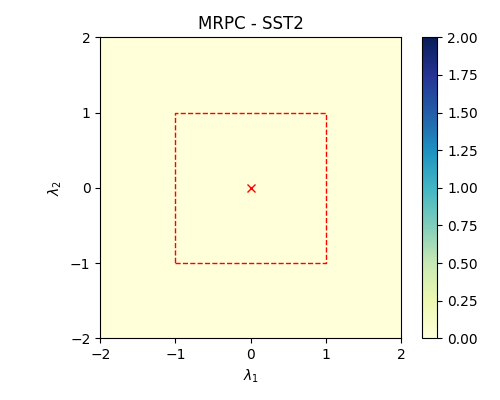
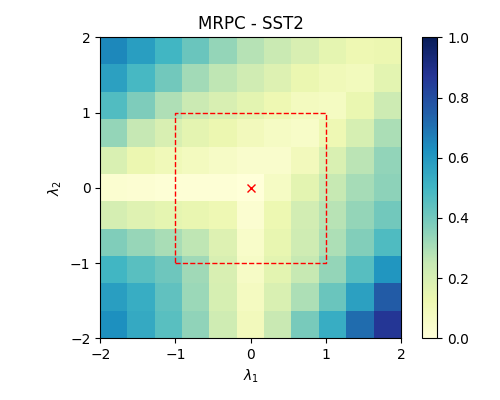
2410105 sync

diff --git a/src/weight_disentanglement.py b/src/weight_disentanglement.py
@@ -23,16 +23,16 @@ def error_rate(y_true, y_pred):
         count += 1
     return error / count
 
-# 현재 시간으로 로그 파일 이름 생성
+
 current_time = datetime.now().strftime('%Y%m%d_%H%M%S')
 log_file = f'/data2/david3684/2024_arithmetic/logs/disentanglement_{current_time}.log'
 log_dir = os.path.dirname(log_file)
 
-# 디렉토리가 존재하지 않으면 생성
+
 if not os.path.exists(log_dir):
     os.makedirs(log_dir)
 
-# 로그 파일 열기
+
 log_f = open(log_file, 'w')
 
 def log(message):
@@ -48,7 +48,7 @@ args.initial_rank_ratio = 0.5
 args.task_scale_factors = None
 args.save = 'checkpoints/ViT-L-14'
 args.data_location = '/data2/david3684/data'
-args.n_eval_points = 10
+args.n_eval_points = 21
 args.num_test_samples = 2048
 
 shared_weight_model = torch.load('/data2/david3684/2024_arithmetic/shared_weight/20241010_vanilla/rankmin_config_20241010_uni_vanilla_2.bin') 
@@ -64,13 +64,13 @@ for task in args.tasks:
     task_vector_path = f"/data2/david3684/2024_arithmetic/checkpoints/ViT-L-14/{task}/{task}_vector_from_shared_{args.low_rank_mode}_rank{args.initial_rank_ratio}.pt"
     task_vectors[task] = torch.load(task_vector_path).to(args.device)
 
-n=11
+n=args.n_eval_points
 alpha_range = np.linspace(-2, 2, n)
 
 disentanglement_errors = np.zeros((n, n))
 
-predicts_0_file = "predicts_0.pkl"
-predicts_1_file = "predicts_1.pkl"
+predicts_0_file = "predicts_0_21.pkl"
+predicts_1_file = "predicts_1_21.pkl"
 
 _, _, val_preprocess = open_clip.create_model_and_transforms(
             args.model, pretrained='openai', cache_dir=args.openclip_cachedir)
@@ -80,7 +80,8 @@ dataset_1 = get_dataset(
         val_preprocess,
         location=args.data_location,
         batch_size=args.batch_size,
-        num_test_samples=args.num_test_samples,
+        num_workers=16,
+        num_test_samples=None,
     )
 dataloader_1 = get_dataloader(
     dataset_1, is_train=False, args=args, image_encoder=None)
@@ -90,6 +91,7 @@ dataset_2 = get_dataset(
         val_preprocess,
         location=args.data_location,
         batch_size=args.batch_size,
+        num_workers=16,
         num_test_samples=args.num_test_samples,
     )
 dataloader_2 = get_dataloader(
@@ -104,23 +106,25 @@ if os.path.exists(predicts_0_file) and os.path.exists(predicts_1_file):
         predicts_1 = pickle.load(f)
 else:       
     predicts_0 = {}
-    for alpha_0 in tqdm(alpha_range):
+    for i, alpha_0 in enumerate(tqdm(alpha_range)):
         log(f"Saving predictions for alpha: {alpha_0}")
         single_task_image_encoder_1 = task_vectors[args.tasks[0]].apply_to(deepcopy(zero_shot_encoder), scaling_coef=alpha_0).to(args.device)
-        predicts_0[alpha_0] = eval_single_dataset_with_prediction(single_task_image_encoder_1, args.tasks[0], dataloader_1, args)[1]
+        _, predicts_0[i], labels = eval_single_dataset_with_prediction(single_task_image_encoder_1, args.tasks[0], dataloader_1, args)
+
+        
 
     predicts_1 = {}
-    for alpha_1 in tqdm(alpha_range):
+    for i, alpha_1 in enumerate(tqdm(alpha_range)):
         log(f"Saving predictions for alpha: {alpha_1}")
         single_task_image_encoder_2 = task_vectors[args.tasks[1]].apply_to(deepcopy(zero_shot_encoder), scaling_coef=alpha_1).to(args.device)
-        predicts_1[alpha_1] = eval_single_dataset_with_prediction(single_task_image_encoder_2, args.tasks[1], dataloader_2, args)[1]
+        _, predicts_1[i], labels = eval_single_dataset_with_prediction(single_task_image_encoder_2, args.tasks[1], dataloader_2, args)
+
 
     with open(predicts_0_file, 'wb') as f:
         pickle.dump(predicts_0, f)
     with open(predicts_1_file, 'wb') as f:
         pickle.dump(predicts_1, f)
 
-        
 log("Calculating disentanglement errors")
 for i, alpha_0 in enumerate(tqdm(alpha_range)):
     for j, alpha_1 in enumerate(alpha_range):
@@ -133,18 +137,19 @@ for i, alpha_0 in enumerate(tqdm(alpha_range)):
         total_count=0
         for task in args.tasks:
             dataloader = dataloader_1 if task == args.tasks[0] else dataloader_2
-            _, multitask_pred, multitask_label = eval_single_dataset_with_prediction(multitask_image_encoder, task, dataloader, args)
+            _, multitask_pred, multitask_labels = eval_single_dataset_with_prediction(multitask_image_encoder, task, dataloader, args)
             if task == args.tasks[0]:
+                print(multitask_labels)
                 total_count += len(multitask_pred) 
-                print(len(multitask_pred))
                 for k in range(len(multitask_pred)):
-                    if multitask_pred[k] != predicts_0[alpha_0][k]:
+                    if multitask_pred[k] != predicts_0[i][k]:
                         error += 1
                 log(f"Error for task {task} at alpha_0: {alpha_0}: {error}")
             elif task == args.tasks[1]:
+                print(multitask_labels)
                 total_count += len(multitask_pred)
                 for k in range(len(multitask_pred)):
-                    if multitask_pred[k] != predicts_1[alpha_1][k]:
+                    if multitask_pred[k] != predicts_1[j][k]:
                         error += 1
                 log(f"Error for task {task} at alpha_1: {alpha_1}: {error}")
         

diff --git a/src/exp_random_init.py b/src/exp_random_init.py
@@ -1,0 +1,87 @@
+import torch
+import logging
+import os
+import sys
+from datetime import datetime
+from src.eval import evaluate, eval_single_dataset
+from src.main import save_scale_factors
+from args import parse_arguments
+from src.modeling import ImageEncoder
+from src.task_vectors import TaskVector
+
+current_time = datetime.now().strftime('%Y%m%d_%H%M%S')
+log_file = f'experiment_{current_time}.log'
+
+logging.basicConfig(level=logging.INFO, format='%(asctime)s - %(levelname)s - %(message)s', handlers=[
+    logging.FileHandler(log_file),
+    logging.StreamHandler()
+])
+logger = logging.getLogger(__name__)
+
+class LoggerWriter:
+    def __init__(self, logger, level):
+        self.logger = logger
+        self.level = level
+        self.buffer = ''
+
+    def write(self, message):
+        if message != '\n':
+            self.buffer += message
+        if '\n' in message:
+            self.logger.log(self.level, self.buffer.strip())
+            self.buffer = ''
+
+    def flush(self):
+        pass
+def average_weights(state_dict1, state_dict2):
+    """Average the weights of two state dicts."""
+    averaged_state_dict = {}
+    for key in state_dict1:
+        averaged_state_dict[key] = (state_dict1[key] + state_dict2[key]) / 2
+    return averaged_state_dict
+
+def create_model_with_averaged_weights(args, state_dict1, state_dict2):
+    """Create a model with averaged weights."""
+    averaged_state_dict = average_weights(state_dict1, state_dict2)
+    model = ImageEncoder(args, keep_lang=False)
+    model.load_state_dict(averaged_state_dict)
+    return model
+
+sys.stdout = LoggerWriter(logger, logging.INFO)
+sys.stderr = LoggerWriter(logger, logging.ERROR)
+
+args = parse_arguments()
+args.model = 'ViT-L-14'
+args.tasks = ['DTD', 'SUN397']
+args.device = 'cuda'
+args.task_scale_factors = None
+args.save = 'checkpoints/ViT-L-14'
+args.data_location = '/data2/david3684/data'
+args.no_shared_weight = True
+
+logger.info("Loading shared weight model")
+
+
+finetuned_model_0 = torch.load(f"/data2/david3684/2024_arithmetic/checkpoints/ViT-L-14/{args.tasks[0]}/finetuned.pt")
+finetuned_model_1 = torch.load(f"/data2/david3684/2024_arithmetic/checkpoints/ViT-L-14/{args.tasks[1]}/finetuned.pt")
+
+finetuned_state_dict_0 = finetuned_model_0.state_dict()
+finetuned_state_dict_1 = finetuned_model_1.state_dict()
+
+averaged_model = create_model_with_averaged_weights(args, finetuned_state_dict_0, finetuned_state_dict_1)
+for task in args.tasks:
+    eval_single_dataset(averaged_model, task, args)
+
+task_vector_0 = TaskVector(args, finetuned_state_dict_0, averaged_model.state_dict())
+task_vector_1 = TaskVector(args, finetuned_state_dict_1, averaged_model.state_dict())
+
+task_vector_sum = (task_vector_0+task_vector_1)
+multitask_image_encoder = task_vector_sum.apply_to(averaged_model, scaling_coef=1.0).to(args.device)
+for task in args.tasks:
+    eval_single_dataset(multitask_image_encoder, task, args)
+
+
+
+
+
+

diff --git a/src/args.py b/src/args.py
@@ -99,13 +99,32 @@ def parse_arguments():
         help='Directory for caching models from OpenCLIP'
     )
     parser.add_argument(
-        "--scale_model",
+        "--no_shared_weights",
         type=bool,
         default=False,
-        help="Whether to scale the model."
+        help="Wheter use shared weight building task vector"
+    )
+    parser.add_argument(
+        "--initial_rank_ratio",
+        type=float,
+        default=1.0,
+        help="The rank ratio to start with."
+    )
+    parser.add_argument(
+        "--tasks",
+        type=lambda x: x.split(","),
+        default=None,
+        help="The tasks to train on."
+    )
+    parser.add_argument(
+        "--low_rank_mode",
+        type=str,
+        default='SoRA',
+        help="The tasks to train on."
     )
     parsed_args = parser.parse_args()
     parsed_args.device = "cuda" if torch.cuda.is_available() else "cpu"
+    
     
     if parsed_args.load is not None and len(parsed_args.load) == 1:
         parsed_args.load = parsed_args.load[0]

diff --git a/src/plot.py b/src/plot.py
@@ -4,7 +4,7 @@ import numpy as np
 import matplotlib as mpl
 
 result = np.load(
-    "/data2/david3684/2024_arithmetic/disentanglement_errors.npy"
+    "/data2/david3684/2024_arithmetic/disentanglement_errors_0.5.npy"
 )
 
 print(result)
@@ -16,7 +16,7 @@ im = ax.imshow(
     origin="lower",
     cmap="YlGnBu",
     vmin=0,
-    vmax=2,
+    vmax=1,
 )
 
 # plot a square x: -1, 1 y: -1, 1, red dashed line, no fill color
@@ -24,14 +24,14 @@ ax.plot([-1, 1, 1, -1, -1], [-1, -1, 1, 1, -1], "r--", linewidth=1)
 # plot a x at the origin
 ax.plot([0], [0], "rx", linewidth=1)
 
-ax.set_title("MRPC - SST2")
+ax.set_title("DTD - SUN397")
 ax.set_aspect("equal")
-ax.set_xlabel("$\lambda_1$")
-ax.set_ylabel("$\lambda_2$")
+ax.set_xlabel(r"$\alpha_1$")
+ax.set_ylabel(r"$\alpha_2$")
 ax.set_xticks([-2, -1, 0, 1, 2])
 ax.set_yticks([-2, -1, 0, 1, 2])
 
 fig.colorbar(im, ax=ax)
 fig.tight_layout()
 plt.show()
-plt.savefig("disentanglement_errors.png")
+plt.savefig("disentanglement_errors_rank0.5.png")

diff --git a/src/task_vectors.py b/src/task_vectors.py
@@ -75,7 +75,14 @@ class TaskVector():
                 
                 pretrained_state_dict = pretrained_checkpoint
                 finetuned_state_dict = finetuned_checkpoint
-                self.vector = make_task_vector(args, finetuned_state_dict, pretrained_state_dict, task)
+                if args.no_shared_weight:
+                    self.vector = {}
+                    for key in pretrained_state_dict:
+                        if pretrained_state_dict[key].dtype in [torch.int64, torch.uint8]:
+                            continue
+                        self.vector[key] = finetuned_state_dict[key] - pretrained_state_dict[key]
+                else:
+                    self.vector = make_task_vector(args, finetuned_state_dict, pretrained_state_dict, task)
 
     def to(self, device):
         for key in self.vector:

diff --git a/src/modeling.py b/src/modeling.py
@@ -22,15 +22,6 @@ class ImageEncoder(torch.nn.Module):
 
         if not keep_lang and hasattr(self.model, 'transformer'):
             delattr(self.model, 'transformer')
-
-        if args.scale_model:
-            self.apply_scaling_and_permutation(args.scaling_factor, args.permute_matrix)
-        
-    def apply_scaling(self, scaling_coef, permute_matrix):
-        for name, param in self.model.named_parameters():
-            if 'weight' in name:
-                param.data = torch.matmul(param.data, permute_matrix.Transpose(0, 1))
-                param.data *= scaling_coef
                 
     def forward(self, images, task=None, args=None):
         assert self.model is not None
